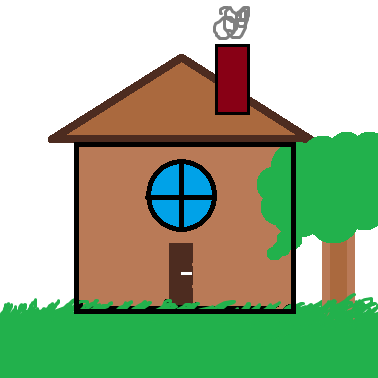
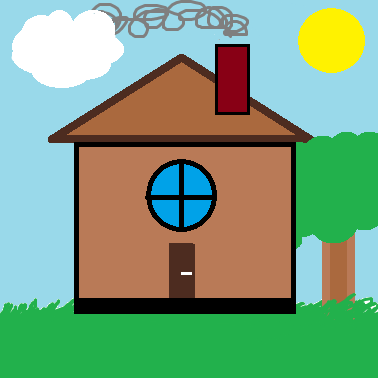
Add files via upload

diff --git a/mapArea/lehestik.html b/mapArea/lehestik.html
@@ -3,9 +3,14 @@
 <head>
     <meta charset="UTF-8">
     <title>Map area kasutamine</title>
+    <link rel="stylesheet" href="mapStyle.css">
 </head>
 <body>
-<h1> Map \ Area kasutamine</h1>
+<header><h1> Map \ Area kasutamine</h1>
+
+
+
+</header>
 <img src="maja.png" alt="maja" usemap="#majake"> 
 <map name="majake">
     <!--ring coord= x, y -keskpunkt, R-raadius-->
@@ -19,9 +24,22 @@
     <area shape="rect" coords="216,45,249,114" href="toru.html" alt="toru">
     <area shape="rect" coords="323,301,351,240" href="puuTuvi.html" alt="puu tuvi">
     <area shape="circle" coords="335,188,77" href="lehestik.html" alt="lehestik">
+    <area shape="circle" coords="66,48,62" href="pilv.hmtl" alt="pilv">
+    <area shape="circle" coords="332,41,32" href="paike.hmtl" alt="paike">
+    <area shape="rect" coords="1,1,376,308" href="taevas.html" alt="taevas">
+  
 </map>
-<div>See on lehestik
+<div>Samal ajal kui arenevad esimese järgu juured, arenevad mullas kolm alumist klorofüllita lehte. Neid nimetatakse alalehtedes. Neljas leht väljub mullast ja säilib kogu suve. Pärast asendusmugulsibula väljakujunemist alalehed kuivavad ja katavad teda kuiva soomusena.
+
+    Asendusmugulsibulast väljuvad uued lehed, mida nimetatakse kattelehtedeks, mõnikord ka mugulsibula lehtedeks. Neil on tüüpiline mõõga kuju ja sordipetsiifiline värvus heledast kuni sinakasroheliseni. Nad on tugevad ja kaetud vahakihiga. Lehtede pikkus on 30-140 cm, laius aga 2-8,5 cm. Neid on tavaliselt 4-5, mis oleneb sordist. Juveniilsetest mugulsibulatest arenenud taimedel on lehti rohkem, 6-9. Need lehed moodustavad peamise fotosünteesivate lehtede massi ja nende ülesanne on varustada taime, hiljem asendusmugulsibulat ja tipikuid toitainetega. Pärast lehtede pikkuskasvu lõppu, nad laienevad ja suurendavad nii fotosünsteesivat pinda. Kehtib seaduspärasus - iga järgnev leht on eelmisest suurem.
+
+    Kattelehtede kaenaldes moodustavad järgmiseks aastaks uued univad pungad. Neid võib sügisel pärast lehtede eemaldamist kergesti kindlaks teha, lehtede kinnituskohas mugulsibulal on näha kontsentrilised ringid. Kattelehtede moodustumise lõppedes ilmub 3-4, harva 5 pärislehte, mis asuvad varre alusel ja mida võib nimetada varrelehtedeks. Nende alumine osa on torujas, vart ümbritsev. Mõõtmetelt on nad väiksemad kui alumisted mugulsibula lehted. Iga järgnev leht on eelmisest väiksem. Neist igaühe kaenlas asuvad õisikualgmed, millistest reeglina areneb välja ainult üks, viimane. Halbades kasvutingimustes (kõikuv temperatuur) võib mõni külgmine siiski areneda õisikuks, kuid ta jääb lühikeseks. 0_0
+
 
 </div>
+<footer>
+    <strong>Artjom Pasko &copy; 2025</strong>
+
+</footer>
 </body>
 </html>

diff --git a/mapArea/puuTuvi.html b/mapArea/puuTuvi.html
@@ -3,9 +3,14 @@
 <head>
     <meta charset="UTF-8">
     <title>Map area kasutamine</title>
+    <link rel="stylesheet" href="mapStyle.css">
 </head>
 <body>
-<h1> Map \ Area kasutamine</h1>
+<header><h1> Map \ Area kasutamine</h1>
+
+
+
+</header>
 <img src="maja.png" alt="maja" usemap="#majake"> 
 <map name="majake">
     <!--ring coord= x, y -keskpunkt, R-raadius-->
@@ -19,10 +24,18 @@
     <area shape="rect" coords="216,45,249,114" href="toru.html" alt="toru">
     <area shape="rect" coords="323,301,351,240" href="puuTuvi.html" alt="puu tuvi">
     <area shape="circle" coords="335,188,77" href="lehestik.html" alt="lehestik">
+    <area shape="circle" coords="66,48,62" href="pilv.html" alt="pilv">
+    <area shape="circle" coords="332,41,32" href="paike.html" alt="paike">
+    <area shape="rect" coords="1,1,376,308" href="taevas.html" alt="taevas">
+  
 </map>
-<div>See on Puu Tuvi
+<div>Tüvi (ladina keeles truncus) on puu varre harunemata osa. Aianduses loetakse tüveks varre maapinnast kuni alumise suure külgoksani ulatuvat osa. Tüvi on puude üks tähtsamaid struktuure, sest sealt harunevad oksad ja nendest omakorda teised taime maapealsed osad, mis moodustavad võra. Tüvi kinnitub maapinda juurte abil. WOW
 
 
 </div>
+<footer>
+    <strong>Artjom Pasko &copy; 2025</strong>
+
+</footer>
 </body>
 </html>

diff --git a/mapArea/aken.html b/mapArea/aken.html
@@ -3,9 +3,14 @@
 <head>
     <meta charset="UTF-8">
     <title>Map area kasutamine</title>
+    <link rel="stylesheet" href="mapStyle.css">
 </head>
 <body>
-<h1> Map \ Area kasutamine</h1>
+<header><h1> Map \ Area kasutamine</h1>
+
+
+
+</header>
 <img src="maja.png" alt="maja" usemap="#majake"> 
 <map name="majake">
     <!--ring coord= x, y -keskpunkt, R-raadius-->
@@ -19,10 +24,18 @@
     <area shape="rect" coords="216,45,249,114" href="toru.html" alt="toru">
     <area shape="rect" coords="323,301,351,240" href="puuTuvi.html" alt="puu tuvi">
     <area shape="circle" coords="335,188,77" href="lehestik.html" alt="lehestik">
+    <area shape="circle" coords="66,48,62" href="pilv.html" alt="pilv">
+    <area shape="circle" coords="332,41,32" href="paike.html" alt="paike">
+    <area shape="rect" coords="1,1,376,308" href="taevas.html" alt="taevas">
+  
 </map>
-<div>See on aken
+<div>Aken on hoone, sõiduki või muu objekti seinas, katuses või ukses paiknev ava, mis tavaliselt võimaldab lasta sisse valgust ja õhku. Tänapäeval on aknad tavaliselt klaasitud või kaetud mõne muu läbipaistva materjaliga. .-.
 
 
 </div>
+<footer>
+    <strong>Artjom Pasko &copy; 2025</strong>
+
+</footer>
 </body>
 </html>

diff --git a/mapArea/uks.html b/mapArea/uks.html
@@ -3,9 +3,14 @@
 <head>
     <meta charset="UTF-8">
     <title>Map area kasutamine</title>
+    <link rel="stylesheet" href="mapStyle.css">
 </head>
 <body>
-<h1> Map \ Area kasutamine</h1>
+<header><h1> Map \ Area kasutamine</h1>
+
+
+
+</header>
 <img src="maja.png" alt="maja" usemap="#majake"> 
 <map name="majake">
     <!--ring coord= x, y -keskpunkt, R-raadius-->
@@ -19,10 +24,18 @@
     <area shape="rect" coords="216,45,249,114" href="toru.html" alt="toru">
     <area shape="rect" coords="323,301,351,240" href="puuTuvi.html" alt="puu tuvi">
     <area shape="circle" coords="335,188,77" href="lehestik.html" alt="lehestik">
+    <area shape="circle" coords="66,48,62" href="pilv.html" alt="pilv">
+    <area shape="circle" coords="332,41,32" href="paike.html" alt="paike">
+    <area shape="rect" coords="1,1,376,308" href="taevas.html" alt="taevas">
+  
 </map>
-<div>See on uks
+<div>Uks on tarind, mille abil saab hoonesse või ruumi sissepääsu ja sellest väljapääsu võimaldamiseks mõeldud ava sulgeda.
 
 
 </div>
+<footer>
+    <strong>Artjom Pasko &copy; 2025</strong>
+
+</footer>
 </body>
 </html>

diff --git a/mapArea/sein.html b/mapArea/sein.html
@@ -3,9 +3,14 @@
 <head>
     <meta charset="UTF-8">
     <title>Map area kasutamine</title>
+    <link rel="stylesheet" href="mapStyle.css">
 </head>
 <body>
-<h1> Map \ Area kasutamine</h1>
+<header><h1> Map \ Area kasutamine</h1>
+
+
+
+</header>
 <img src="maja.png" alt="maja" usemap="#majake"> 
 <map name="majake">
     <!--ring coord= x, y -keskpunkt, R-raadius-->
@@ -19,10 +24,18 @@
     <area shape="rect" coords="216,45,249,114" href="toru.html" alt="toru">
     <area shape="rect" coords="323,301,351,240" href="puuTuvi.html" alt="puu tuvi">
     <area shape="circle" coords="335,188,77" href="lehestik.html" alt="lehestik">
+    <area shape="circle" coords="66,48,62" href="pilv.html" alt="pilv">
+    <area shape="circle" coords="332,41,32" href="paike.html" alt="paike">
+    <area shape="rect" coords="1,1,376,308" href="taevas.html" alt="taevas">
+  
 </map>
-<div>See on sein
+<div>Sein on hoone harilikult püstne piirdetarind, mis võib olla ka kandetarindiks.xD
 
 
 </div>
+<footer>
+    <strong>Artjom Pasko &copy; 2025</strong>
+
+</footer>
 </body>
 </html>

diff --git a/mapArea/map.html b/mapArea/map.html
@@ -3,9 +3,18 @@
 <head>
     <meta charset="UTF-8">
     <title>Map area kasutamine</title>
+    <link rel="stylesheet" href="mapStyle.css">
 </head>
 <body>
-<h1> Map \ Area kasutamine</h1>
+<header><h1> Map \ Area kasutamine</h1>
+
+
+
+</header>
+
+
+
+
 <img src="maja.png" alt="maja" usemap="#majake"> 
 <map name="majake">
     <!--ring coord= x, y -keskpunkt, R-raadius-->
@@ -19,10 +28,18 @@
     <area shape="rect" coords="216,45,249,114" href="toru.html" alt="toru">
     <area shape="rect" coords="323,301,351,240" href="puuTuvi.html" alt="puu tuvi">
     <area shape="circle" coords="335,188,77" href="lehestik.html" alt="lehestik">
+    <area shape="circle" coords="66,48,62" href="pilv.html" alt="pilv">
+    <area shape="circle" coords="332,41,32" href="paike.html" alt="paike">
+    <area shape="rect" coords="1,1,376,308" href="taevas.html" alt="taevas">
+  
 </map>
 <div>Siia tuleb kirjeldus, kui sa klikid akna, seina või katuse peale
 
 
 </div>
+<footer>
+    <strong>Artjom Pasko &copy; 2025</strong>
+
+</footer>
 </body>
 </html>

diff --git a/mapArea/toru.html b/mapArea/toru.html
@@ -3,9 +3,14 @@
 <head>
     <meta charset="UTF-8">
     <title>Map area kasutamine</title>
+    <link rel="stylesheet" href="mapStyle.css">
 </head>
 <body>
-<h1> Map \ Area kasutamine</h1>
+<header><h1> Map \ Area kasutamine</h1>
+
+
+
+</header>
 <img src="maja.png" alt="maja" usemap="#majake"> 
 <map name="majake">
     <!--ring coord= x, y -keskpunkt, R-raadius-->
@@ -19,10 +24,18 @@
     <area shape="rect" coords="216,45,249,114" href="toru.html" alt="toru">
     <area shape="rect" coords="323,301,351,240" href="puuTuvi.html" alt="puu tuvi">
     <area shape="circle" coords="335,188,77" href="lehestik.html" alt="lehestik">
+    <area shape="circle" coords="66,48,62" href="pilv.html" alt="pilv">
+    <area shape="circle" coords="332,41,32" href="paike.html" alt="paike">
+    <area shape="rect" coords="1,1,376,308" href="taevas.html" alt="taevas">
+  
 </map>
-<div>See on toru
+<div>See on toru, see teeb suitsu
 
 
 </div>
+<footer>
+    <strong>Artjom Pasko &copy; 2025</strong>
+
+</footer>
 </body>
 </html>

diff --git a/mapArea/mapStyle.css b/mapArea/mapStyle.css
@@ -1,0 +1,47 @@
+div{
+    width:25%;
+    border: solid 0.5pt black;
+    position:absolute;
+    left: 12cm;
+    top: 5cm;
+    padding: 0.5%;
+    border-radius: 30px;
+    font-family: "Book Antiqua",serif;
+    color: white;
+    border-collapse: collapse;
+    margin: 10px;
+    background-color:grey ;
+
+}
+footer{
+    text-align: center;
+    width:100%;
+    border: solid 1pt black;
+    background-color: dimgrey;
+    color: white;
+    position: fixed;
+    bottom: 0px;
+    left:0;
+    font-family: "Gill Sans Ultra Bold", sans-serif;
+}
+
+header{
+    text-align: center;
+    color: white;
+    border: solid 2pt lightgray;
+    background-color: darkgray;
+    width:  50%;
+    position: absolute;
+    left: 12cm;
+    top: 0cm;
+    font-family: "Century Gothic";
+}
+img{
+    border: solid 3pt lightgray;
+    border-collapse : separate;
+    border-radius: 30px;
+    filter: drop-shadow(3px 4px 5px darkgrey) ;
+
+
+}
+

diff --git a/mapArea/taevas.html b/mapArea/taevas.html
@@ -29,7 +29,7 @@
     <area shape="rect" coords="1,1,376,308" href="taevas.html" alt="taevas">
   
 </map>
-<div>Katus on ehitise ülemine osa, mis koosneb eri materjalidest ja konstruktsioonilistest elementidest ning toetub ehitise seintele ja tugedele. Katuse peamine ülesanne on kaitsta ehitist vihma, lume, päikse, temperatuuri ja tuule eest.:D
+<div>Taevakeha on kosmoses asuv astronoomia poolt uuritav keha. Taevakehad on kõik objektid, mida me Maa pealt taevasse vaadates näeme. Enamik neist on looduslikud taevakehad, aga on olemas ka mittelooduslikud taevakehad, näiteks satelliidid. o-0
 
 
 </div>

diff --git a/mapArea/paike.html b/mapArea/paike.html
@@ -29,7 +29,7 @@
     <area shape="rect" coords="1,1,376,308" href="taevas.html" alt="taevas">
   
 </map>
-<div>Katus on ehitise ülemine osa, mis koosneb eri materjalidest ja konstruktsioonilistest elementidest ning toetub ehitise seintele ja tugedele. Katuse peamine ülesanne on kaitsta ehitist vihma, lume, päikse, temperatuuri ja tuule eest.:D
+<div>Päike on heledaim Maalt nähtav täht, Päikesesüsteemi keskne keha. Kui jutt on mõnest teisest planeedisüsteemist, siis võib üldnimetusena päikeseks nimetada ka selle teise planeedisüsteemi tähte (või tähti).
 
 
 </div>

diff --git a/mapArea/pilv.html b/mapArea/pilv.html
@@ -29,7 +29,7 @@
     <area shape="rect" coords="1,1,376,308" href="taevas.html" alt="taevas">
   
 </map>
-<div>Katus on ehitise ülemine osa, mis koosneb eri materjalidest ja konstruktsioonilistest elementidest ning toetub ehitise seintele ja tugedele. Katuse peamine ülesanne on kaitsta ehitist vihma, lume, päikse, temperatuuri ja tuule eest.:D
+<div>Pilv on atmosfääris veeauru kondenseerumisel tekkinud hõljuvate väga väikeste veetilkade (udu) või jääkristallide nähtav kogum. :D
 
 
 </div>
